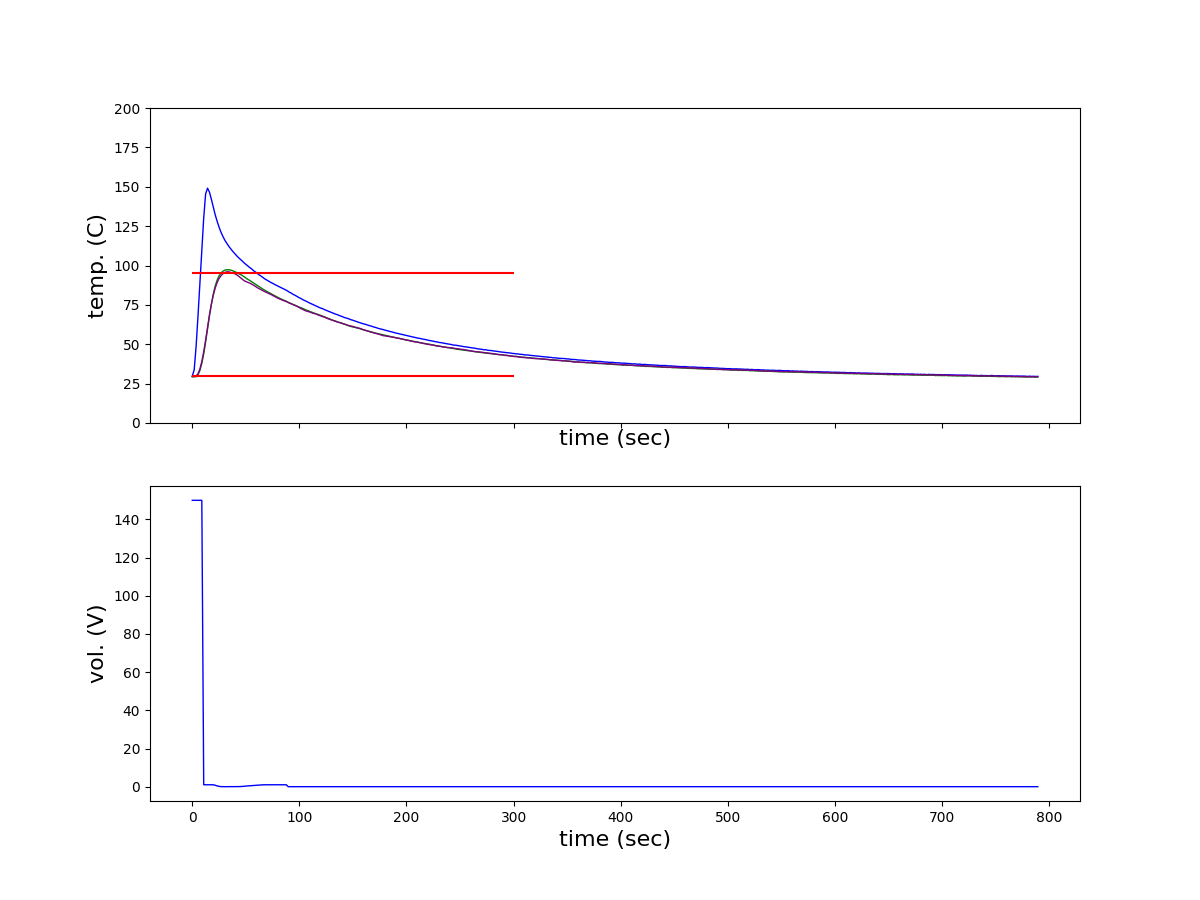
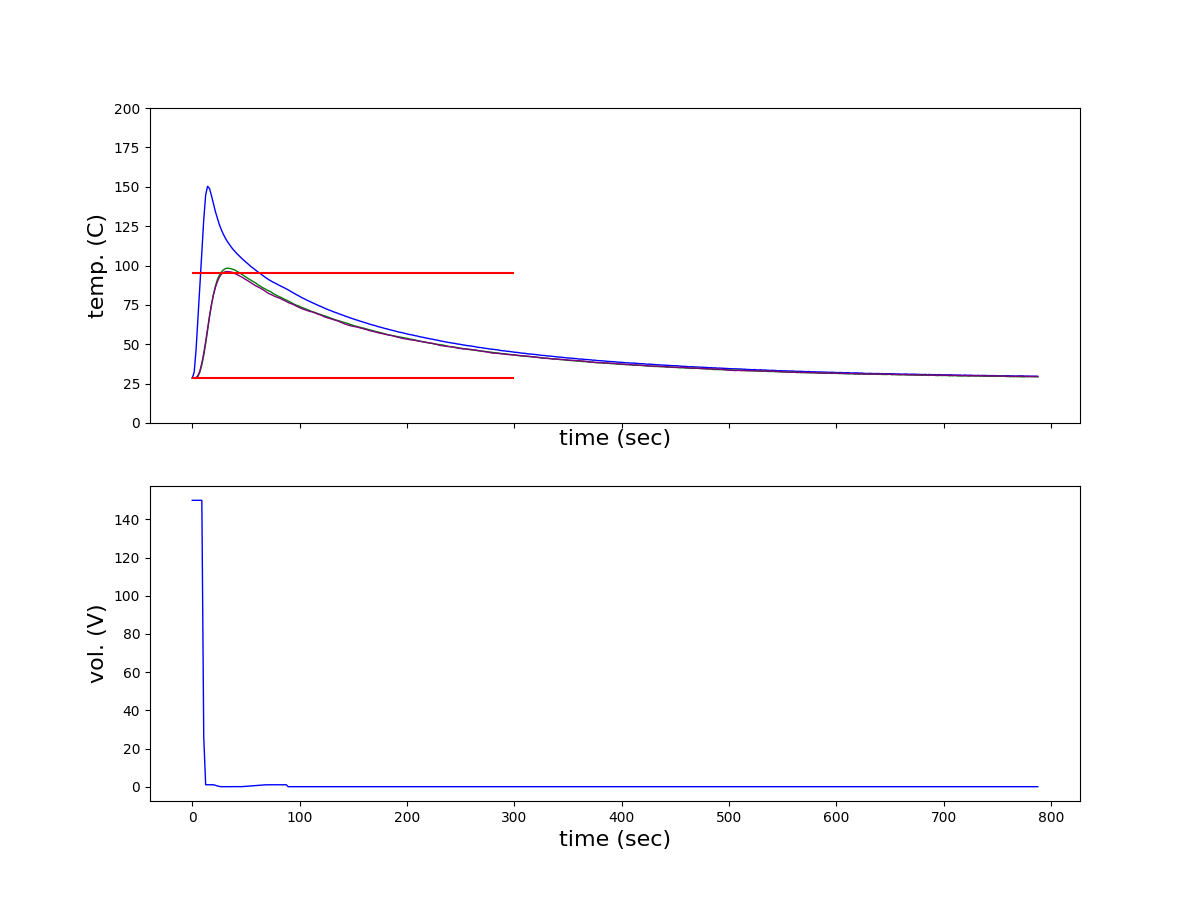
exp

diff --git a/backup/HeaterTest/test1_plot_data_TouchStone.py b/backup/HeaterTest/test1_plot_data_TouchStone.py
@@ -7,7 +7,21 @@ import numpy as np
 from scipy.interpolate import BSpline, make_interp_spline #  Switched to BSpline
 
 
-filelist = ["t1_output_20240513_bias150_120s.txt"]
+filelist = ["t1_output_20240513_bias10.txt", 
+            "t1_output_20240513_bias15.txt",
+            "t1_output_20240513_bias25.txt",
+            "t1_output_20240513_bias50.txt",
+            "t1_output_20240513_bias75.txt",
+            "t1_output_20240513_bias100.txt",
+            "t1_output_20240513_bias125.txt",
+            "t1_output_20240513_bias150.txt",
+            "t1_output_20240513_bias175.txt",
+            "t1_output_20240513_bias200.txt",
+            "t1_output_20240513_bias225.txt",
+            "t1_output_20240513_bias250.txt",
+            "t1_output_20240513_bias150_60s.txt",
+            "t1_output_20240513_bias150_120s.txt",
+            "t1_output_20240513_bias250_60s.txt"]
 
 for f in filelist:
 #if 1:
@@ -22,6 +36,18 @@ for f in filelist:
     timet_list = content[:, 5]
     time_list = timet_list - timet_list[0]
 	
+    # clip
+    '''
+    clip_num = 150
+    num_list = num_list[:clip_num]
+    th_list = th_list[:clip_num]
+    ts1_list = ts1_list[:clip_num]
+    ts2_list = ts2_list[:clip_num]
+    pwm_list = pwm_list[:clip_num]
+    timet_list = timet_list[:clip_num]
+    time_list = time_list[:clip_num]
+    '''
+
     plt.plot(time_list, th_list)
     
     # 建立繪圖物件 fig, 大小為 12 * 4.5, 內有 1 列 2 欄的小圖, 兩圖共用 x 軸和 y 軸
@@ -52,3 +78,18 @@ for f in filelist:
     fig.savefig(f[:-3]+'png')
     fig.show()
     
+    # show some value
+    print("==== %s ====" % f)
+    # first 95 time
+    first_95 = 0
+    for ii in range(len(time_list)):
+        if ts1_list[ii] >= 95:
+            first_95 = ii
+            break
+    # initial temp
+    print("num = 0, th = %f, ts1 = %f, ts2 = %f" % (th_list[0], ts1_list[0], ts2_list[0]))
+    print("num = %d, th = %f, ts1 = %f, ts2 = %f" % (first_95, th_list[first_95], ts1_list[first_95], ts2_list[first_95]))
+    # first 95 time + 30s
+    # end temp
+
+	
